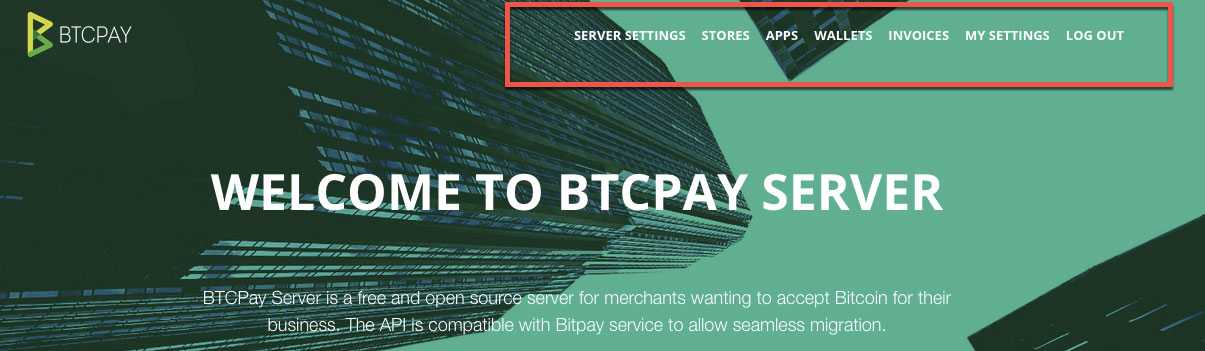
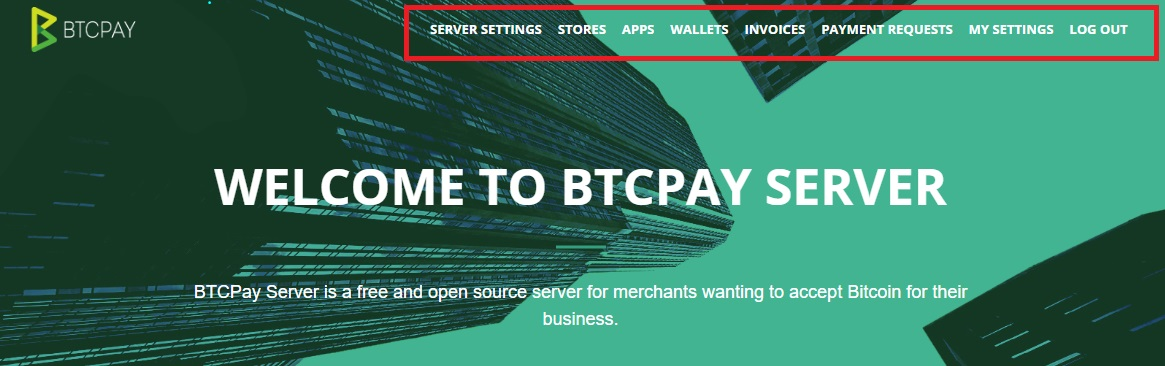
Update walkthrough doc with payment requests

diff --git a/Walkthrough.md b/Walkthrough.md
@@ -15,11 +15,12 @@ After you created the account on the BTCPay Server instance hosted by yourself o
 * Apps
 * Wallets
 * Invoices
+* Payment Requests
 * My settings
 
 ## Server settings
 
-Server settings is something only a server admin can access. If you're using someone else's server, you won't see Server Settings. Inside the settings, you can perform tasks such as controlling users, rates, updating the server, etc.
+Server settings is something only a server admin can access. If you're using someone else's server, you won't see Server Settings. Inside the settings, you can perform tasks such as controlling users, rates, updating the server, etc. For more information, check [Server Settings FAQ](FAQ/FAQ-ServerSettings.md)
 
 - Users - Add, remove or manage users of your BTCPay Server.
 - Rates - Set the source for cryptocurrency to fiat rates used by the server.
@@ -43,7 +44,7 @@ Inside BTCPay you can create and manage an unlimited number of stores. Each stor
 
 ## Apps
 
-Each store has access to different apps. Applications built on top of BTCPay extend [the usecase](usecase.md) of the software and cater to different type of users. Here you can create a new app and connect it to the store and customize it. A good example is [Point of Sale app](GettingStarted.md#creating-the-point-of-sale-app) you can use to receive payments in physical stores or even donations.
+Each store has access to different apps. Applications built on top of BTCPay extend the [use case](UseCase.md) of the software and cater to different type of users. Here you can create a new app and connect it to the store and customize it. A good example is [Point of Sale app](GettingStarted.md#creating-the-point-of-sale-app) you can use to receive payments in physical stores or even donations.
 
 For more information, check [Apps FAQ](/FAQ/FAQ-Apps.md)
 
@@ -61,6 +62,12 @@ For more information, check [Wallet FAQ](/FAQ/FAQ-Wallet.md)
 ## Invoices
 
 All of the invoices for your user account will be displayed here. You can filter the invoices by the status or a store. You can also create invoices manually. Invoices are sorted by date from new to old. You can open an individual invoice for more information.
+
+## Payment Requests
+
+Each store can have an unlimited number of payment requests which are displayed here. Payment requests are dynamic invoices that can be shared by url and paid at any time using current BTC exchange rates. Here you can edit, view and pay your payment requests. You can see invoice details for your payment requests and even clone previous payment requests for easy reoccuring requests for payment. 
+
+For more information, check [Payment Requests](PaymentRequests.md)
 
 ## My Settings
 
